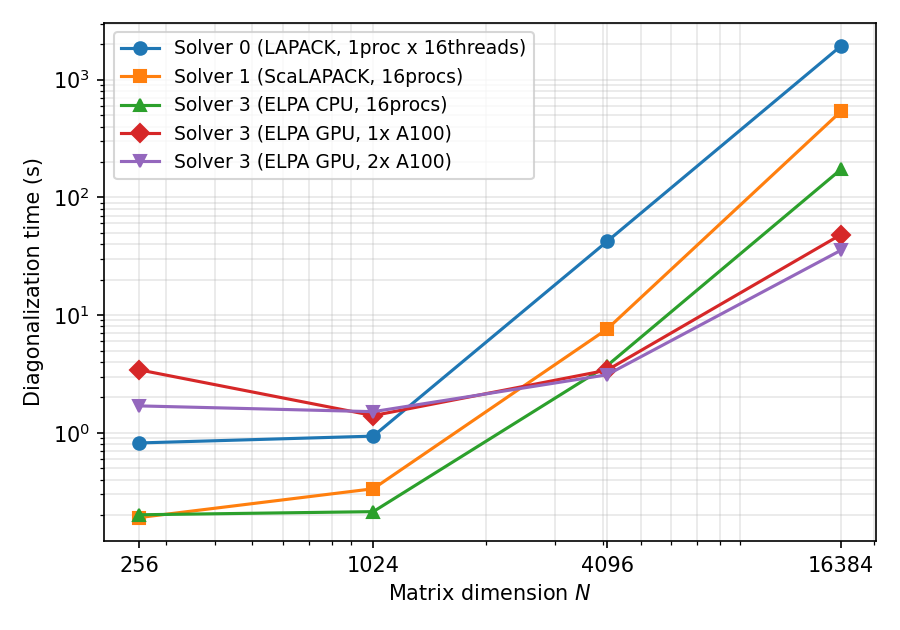
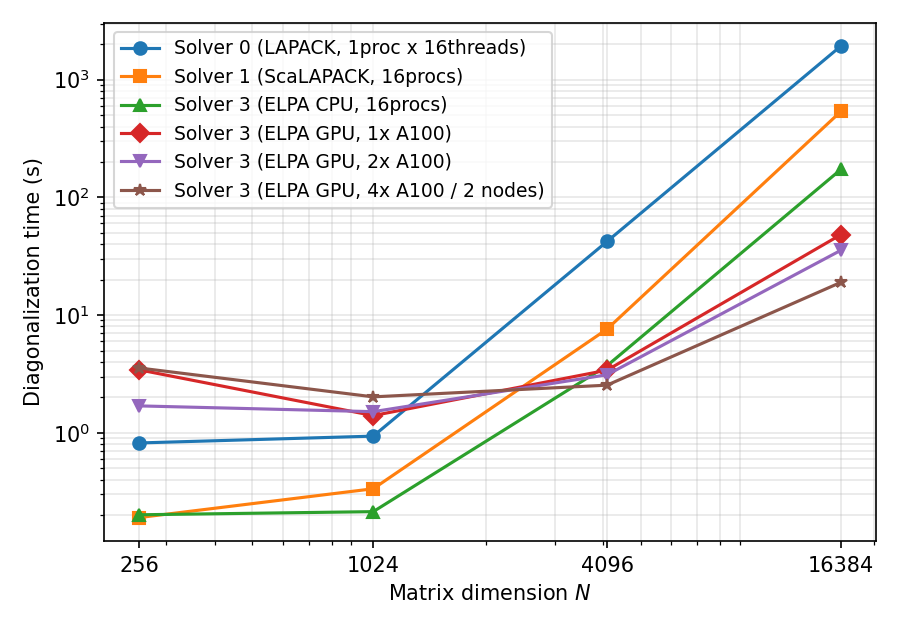
Add the 4-GPU/2-node benchmark point to the manual appendix
SpinGC chain sweep on kugui F2acc (2 nodes x 2 A100, np=4, NGPU 2,
I_MPI_ADJUST_GATHERV=3, PBS 858431): LapackDiag at N=16384 is 18.97 s
(~1.87x over 2 GPUs, ~102x over LAPACK); no gain below N~4096. Tables,
figures, and prose updated in both languages; run recorded in
elpa_gpu_check.md.

Claude-Session: https://claude.ai/code/session_01WCwnWyfZJx43ry3SU1yV2H

diff --git a/doc/en/source/technical/parallel_fulldiag_en.rst b/doc/en/source/technical/parallel_fulldiag_en.rst
@@ -127,21 +127,23 @@ measured on one node of the ISSP supercomputer kugui (AMD EPYC 7763,
 Intel compilers + Intel MPI + MKL). Every CPU configuration uses 16
 cores in total: ``Solver 0`` uses 1 process :math:`\times` 16 threads,
 ``Solver 1``/``3`` use 16 processes :math:`\times` 1 thread. The GPU
-runs use a GPU node of the same system (EPYC 7763 + 2 :math:`\times`
-NVIDIA A100-SXM4-40GB), with one process per GPU (``NGPU`` 1 and 2,
-assigned automatically by ELPA).
+runs use GPU nodes of the same system (EPYC 7763 + 2 :math:`\times`
+NVIDIA A100-SXM4-40GB per node) with one process per GPU: one GPU =
+1 process (``NGPU 1``), two GPUs = 2 processes on one node
+(``NGPU 2``), and four GPUs = 2 nodes :math:`\times` 2 processes
+(``NGPU 2``, InfiniBand + Intel MPI between the nodes).
 
 Diagonalization time (``LapackDiag`` section of ``CalcTimer.dat``,
 seconds):
 
 .. csv-table::
-   :header: ":math:`N`", "Solver 0 (LAPACK)", "Solver 1 (ScaLAPACK)", "Solver 3 (ELPA, CPU)", "Solver 3 (ELPA, GPU :math:`\times` 1)", "Solver 3 (ELPA, GPU :math:`\times` 2)"
-   :widths: 10, 18, 18, 18, 18, 18
+   :header: ":math:`N`", "Solver 0 (LAPACK)", "Solver 1 (ScaLAPACK)", "Solver 3 (ELPA, CPU)", "Solver 3 (GPU :math:`\times` 1)", "Solver 3 (GPU :math:`\times` 2)", "Solver 3 (GPU :math:`\times` 4, 2 nodes)"
+   :widths: 10, 16, 16, 16, 14, 14, 14
 
-   "256", "0.82", "0.19", "0.20", "3.42", "1.69"
-   "1024", "0.94", "0.33", "0.21", "1.40", "1.51"
-   "4096", "42.22", "7.60", "3.72", "3.41", "3.11"
-   "16384", "1929.6", "536.9", "172.6", "48.23", "35.51"
+   "256", "0.82", "0.19", "0.20", "3.42", "1.69", "3.55"
+   "1024", "0.94", "0.33", "0.21", "1.40", "1.51", "2.02"
+   "4096", "42.22", "7.60", "3.72", "3.41", "3.11", "2.54"
+   "16384", "1929.6", "536.9", "172.6", "48.23", "35.51", "18.97"
 
 .. figure:: ../../../figs/fulldiag_solver_bench.png
    :name: fig_fulldiag_solver_bench
@@ -155,8 +157,12 @@ times faster than ``Solver 0`` (LAPACK) and about 3.1 times faster
 than ``Solver 1`` (ScaLAPACK). The GPU runs pay an initialization and
 transfer overhead at small :math:`N`, break even with the 16-core CPU
 runs around :math:`N \sim 4000`, and reach about 3.6 times the ELPA
-CPU speed (about 40 times LAPACK) with one A100 and about 4.9 times
-(about 54 times LAPACK) with two A100s at :math:`N=16384`.
+CPU speed (about 40 times LAPACK) with one A100, about 4.9 times
+(about 54 times LAPACK) with two A100s, and about 9.1 times (about
+102 times LAPACK) with four A100s on 2 nodes at :math:`N=16384`. The
+2-to-4-GPU (inter-node) step scales by about 1.87, close to ideal. At
+:math:`N \lesssim 4000`, adding GPUs does not help — scale the GPU
+count with the matrix size.
 
 Observable-evaluation time (``Solver 3`` CPU with 16 processes,
 aggregate one- and two-body Green-function output for all states,

diff --git a/test/manual/elpa_gpu_check.md b/test/manual/elpa_gpu_check.md
@@ -197,3 +197,4 @@ Record results (date, host, ELPA version, commit) at the bottom of this file.
 - CPU (PBS 858288, F1cpu, EPYC 7763, 16 cores per config — Solver 0: 1p x 16t; Solver 1/3: 16p x 1t; `I_MPI_ADJUST_GATHERV=3`): all 24 runs rc=0. `LapackDiag` at N=16384: S0 1929.6 s / S1 536.9 s / S3 172.6 s. `CalcPhys` (Solver 3, 16p) at N=16384: Mode 0 424.5 s / Mode 1 26.4 s / Mode 2 20.8 s (trace kernels confirmed active via INFO lines).
 - GPU: ELPA 2025.06.001 rebuilt with CUDA 12.4 (`--enable-nvidia-gpu-kernels --enable-nvidia-sm80-gpu --with-NVIDIA-GPU-compute-capability=sm_80 --disable-avx512{,-kernels}`; needs `-lstdc++` appended to LIBS — first attempt failed linking `elpa2_print_kernels` with undefined `std::ios_base::Init`) as `~/opt/elpa-2025.06-a100`; HPhi rebuilt against it (`build_kugui_gpu`, PBS 858296). Sweep on F2acc (858297, EPYC 7763 + 2x A100-SXM4-40GB): all 8 runs rc=0, "Using ELPA (GPU)" confirmed. `LapackDiag` at N=16384: 1 GPU 48.2 s / 2 GPUs 35.5 s.
 - Full tables/figures: manual appendix (both languages); raw dirs kugui `~/bench_appendix/{cpu,gpu}_L*_*`.
+- 4-GPU / 2-node addition (PBS 858431, F2acc, acc003+acc004, `select=2:ncpus=64:ngpus=2:mpiprocs=2`, `mpirun -n 4 -ppn 2`, `NGPU 2`, `I_MPI_ADJUST_GATHERV=3`): all 4 runs rc=0, "Using ELPA (GPU)". `LapackDiag` at N=16384: **18.97 s** (x2 GPUs 35.51 s -> ~1.87x inter-node scaling; ~102x LAPACK). Small sizes flat/worse (N<=4096: 2.0-3.6 s) — GPU count should scale with matrix size. Script `~/kugui_bench_gpu4.pbs`.
